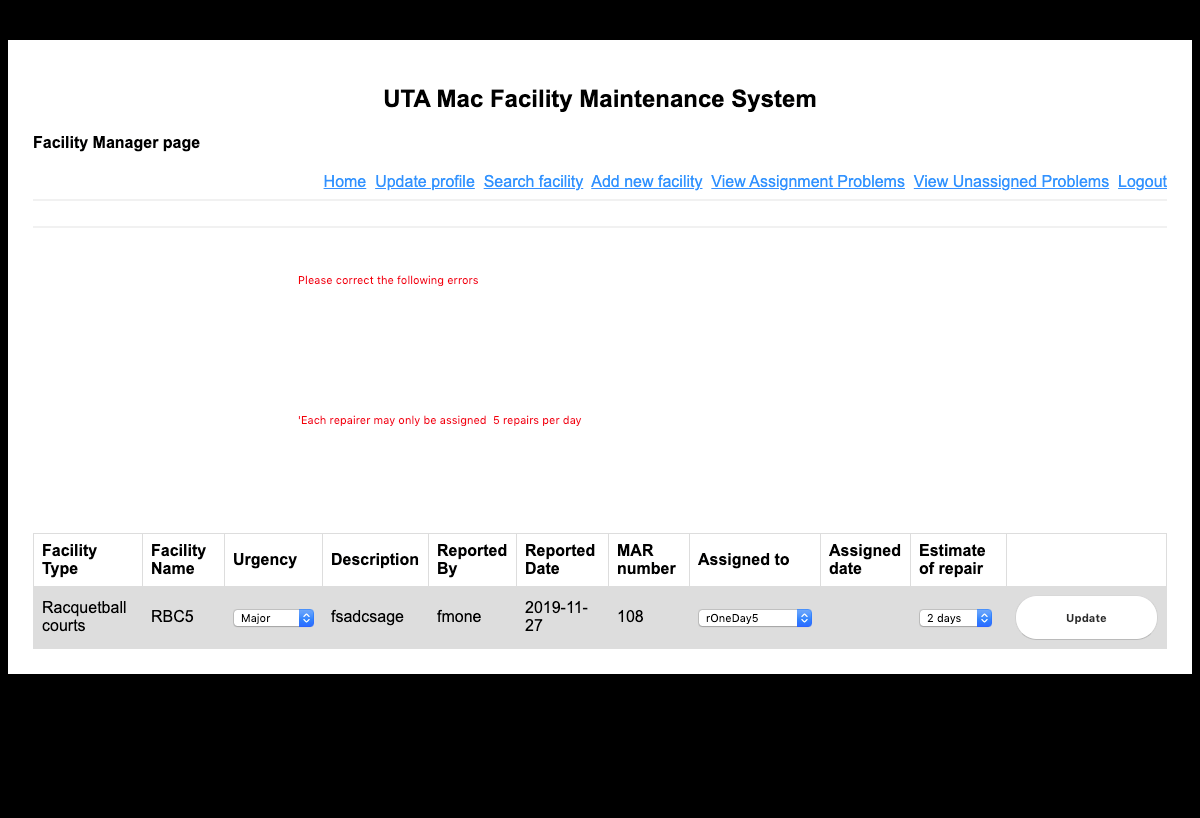
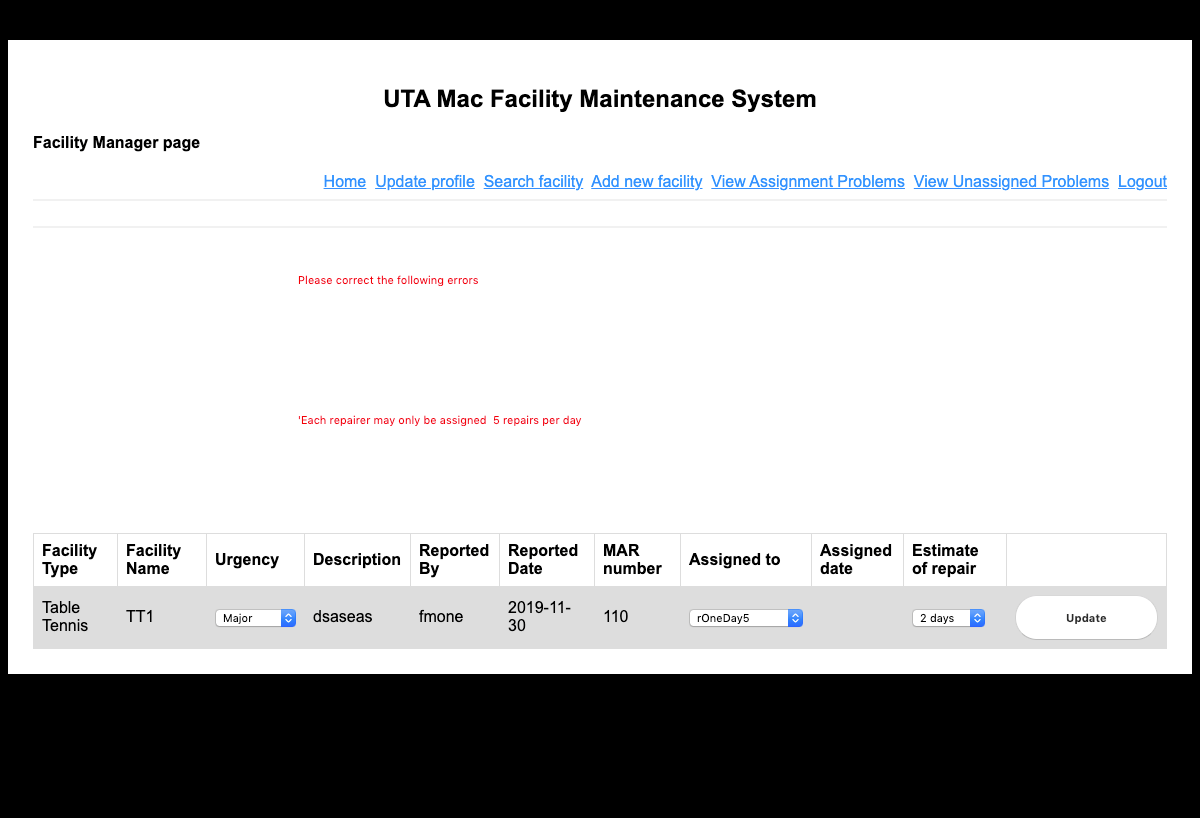
add verify error msg in FM unassigned problem

diff --git a/test/facility_maintenance/selenium/FacilityManagerTest.java b/test/facility_maintenance/selenium/FacilityManagerTest.java
@@ -42,6 +42,7 @@ public class FacilityManagerTest extends facility_maintenance.FMFunctions {
     prop.load(new FileInputStream(prop.getProperty("SharedUIMap")));
   }
 
+  /*
   @Test
   @FileParameters("./test/facility_maintenance/selenium/FM_registration.csv")
   public void Registration(int testcaseNum, 
@@ -61,6 +62,7 @@ public class FacilityManagerTest extends facility_maintenance.FMFunctions {
 
 	FM_Register(driver, username, pwd, "Facility Manager", utaid, firstName, lastName, email, phone, address, city, state, "FacilityManagerTest" + methodName + testcaseNum);
   }
+  */
 
   /*
   @Test
@@ -114,7 +116,7 @@ public class FacilityManagerTest extends facility_maintenance.FMFunctions {
 
   @Test
   @FileParameters("./test/facility_maintenance/selenium/FM_assignMAR.csv")
-  public void assignMAR(int testcaseNum, String repairer, String urgency, String estimate) throws Exception {
+  public void assignMAR(int testcaseNum, String repairer, String urgency, String estimate, int errMsgIdx) throws Exception {
 	driver.get(appURL);
 	
 	FM_Login(driver, "fmfive", "test1");    
@@ -149,13 +151,30 @@ public class FacilityManagerTest extends facility_maintenance.FMFunctions {
     Thread.sleep(500);
     String methodName = new Throwable().getStackTrace()[0].getMethodName();
     takeScreenshot(driver, "FacilityManagerTest" + methodName + testcaseNum);
+    try {
+    	String xpath = prop.getProperty("Txt_MM_ErrMsg");
+    	xpath = xpath.replace("^", Integer.toString(errMsgIdx));
+    	System.out.println(xpath);
+    	if ( 1 != errMsgIdx )
+    	{
+    		assertTrue(isElementPresent(By.xpath(xpath)));
+    	}
+    	else
+    	{
+    		driver.manage().timeouts().implicitlyWait(2, TimeUnit.SECONDS);
+    		assertFalse(isElementPresent(By.xpath(xpath)));
+    		driver.manage().timeouts().implicitlyWait(30, TimeUnit.SECONDS);
+    	}
+    } catch (Error e) {
+    	verificationErrors.append(e.toString());
+    }
 
     FM_Logout(driver);
   }  
 
+  /*
   @Test
   @FileParameters("./test/facility_maintenance/selenium/FM_assignMARToOther.csv")
-//  public void assignMARToOther(int testcaseNum, String time, String facilityName, String newRepairer) throws Exception {
   public void assignMARToOther(int testcaseNum, String MARIdx, String facilityType, 
 		  String facilityName, String oldRepairer, String date, String time, String newRepairer) throws Exception {
 	  driver.get(appURL);
@@ -173,7 +192,6 @@ public class FacilityManagerTest extends facility_maintenance.FMFunctions {
 	  Thread.sleep(1000);
 	  driver.findElement(By.name(prop.getProperty("Txt_FAM_AssignedDate"))).clear();
 	  Thread.sleep(1000);
-	  //driver.findElement(By.name(prop.getProperty("Txt_FAM_AssignedDate"))).sendKeys(date);
 	  if ( ds.length > 1 )
 	  {
 		  driver.findElement(By.name(prop.getProperty("Txt_FAM_AssignedDate"))).sendKeys(ds[0]);
@@ -185,12 +203,8 @@ public class FacilityManagerTest extends facility_maintenance.FMFunctions {
 		  driver.findElement(By.name(prop.getProperty("Txt_FAM_AssignedDate"))).sendKeys(ds[2]);
 		  Thread.sleep(100);
 	  }
-	  //driver.findElement(By.name(prop.getProperty("Txt_FAM_AssignedDate"))).sendKeys("11/25/2019");
-	  //System.out.println(date);
 
-//	  new Select(driver.findElement(By.name("assigntime"))).selectByVisibleText(time);
 	  new Select(driver.findElement(By.name(prop.getProperty("Txt_FAM_AssignedTime")))).selectByVisibleText(time);
-//	  new Select(driver.findElement(By.name("facilitytype"))).selectByVisibleText(facilityName);
 	  new Select(driver.findElement(By.name(prop.getProperty("Txt_FAM_FacilityType")))).selectByVisibleText(facilityType);
 	  new Select(driver.findElement(By.name(prop.getProperty("Txt_FAM_FacilityName")))).selectByVisibleText(facilityName);
 
@@ -198,7 +212,6 @@ public class FacilityManagerTest extends facility_maintenance.FMFunctions {
 	  
 	   //For unknown reason, I have to give it 2 click with 500ms delay or the selenium won't click the button.
 	  WebDriverWait wait = new WebDriverWait(driver, 5);
-//	  wait.until(ExpectedConditions.elementToBeClickable(By.xpath(prop.getProperty("Btn_FAM_Submit")))).click();
 	  Thread.sleep(500);
 	  wait.until(ExpectedConditions.elementToBeClickable(By.xpath(prop.getProperty("Btn_FAM_Submit"))));
 	  Thread.sleep(500);
@@ -224,17 +237,14 @@ public class FacilityManagerTest extends facility_maintenance.FMFunctions {
 	  FM_Login(driver, "fmfive", "test1");    
 
 	  driver.findElement(By.linkText(prop.getProperty("Txt_FM_SearchFacility"))).click();
-//	  new Select(driver.findElement(By.name("facilityname"))).selectByVisibleText(facilityName);
 	  new Select(driver.findElement(By.name(prop.getProperty("Txt_SF_FacilityName")))).selectByVisibleText(facilityName);
 	  new Select(driver.findElement(By.name("starttime"))).selectByVisibleText("11:00");
-//	  driver.findElement(By.cssSelector("button[type=\"submit\"]")).click();
 	  Thread.sleep(500);
 	  driver.findElement(By.cssSelector(prop.getProperty("Btn_SF_Submit"))).click();
 	  Thread.sleep(500);
 	  String methodName = new Throwable().getStackTrace()[0].getMethodName();
 	  takeScreenshot(driver, "FacilityManagerTest" + methodName + testcaseNum);
 	  driver.navigate().back();
-	  //driver.findElement(By.linkText("Logout")).click();
 	  FM_Logout(driver);
   }
 
@@ -245,14 +255,10 @@ public class FacilityManagerTest extends facility_maintenance.FMFunctions {
 	  FM_Login(driver, "fmfive", "test1");    
 
 	  driver.findElement(By.linkText(prop.getProperty("Txt_FM_AddNewFacility"))).click();
-//	  new Select(driver.findElement(By.name("master"))).selectByVisibleText("Volleyball courts");
 	  new Select(driver.findElement(By.name(prop.getProperty("Txt_ANF_Master")))).selectByVisibleText(facilityName);
 	  driver.findElement(By.name(prop.getProperty("Txt_ANF_Number"))).clear();
-//	  driver.findElement(By.name("number")).sendKeys("2");
 	  driver.findElement(By.name(prop.getProperty("Txt_ANF_Number"))).sendKeys(number);
-//	  new Select(driver.findElement(By.name("interval"))).selectByVisibleText("1 hour");
 	  new Select(driver.findElement(By.name(prop.getProperty("Txt_ANF_Interval")))).selectByVisibleText(interval);
-//	  new Select(driver.findElement(By.name("duration"))).selectByVisibleText("4 days");
 	  new Select(driver.findElement(By.name(prop.getProperty("Txt_ANF_Duration")))).selectByVisibleText(duration);
 	  String methodName = new Throwable().getStackTrace()[0].getMethodName();
 	  takeScreenshot(driver, "FacilityManagerTest" + methodName + testcaseNum);
@@ -263,6 +269,7 @@ public class FacilityManagerTest extends facility_maintenance.FMFunctions {
 	  Thread.sleep(100);
 	  FM_Logout(driver);
   }
+  */
 
   @After
   public void tearDown() throws Exception {
